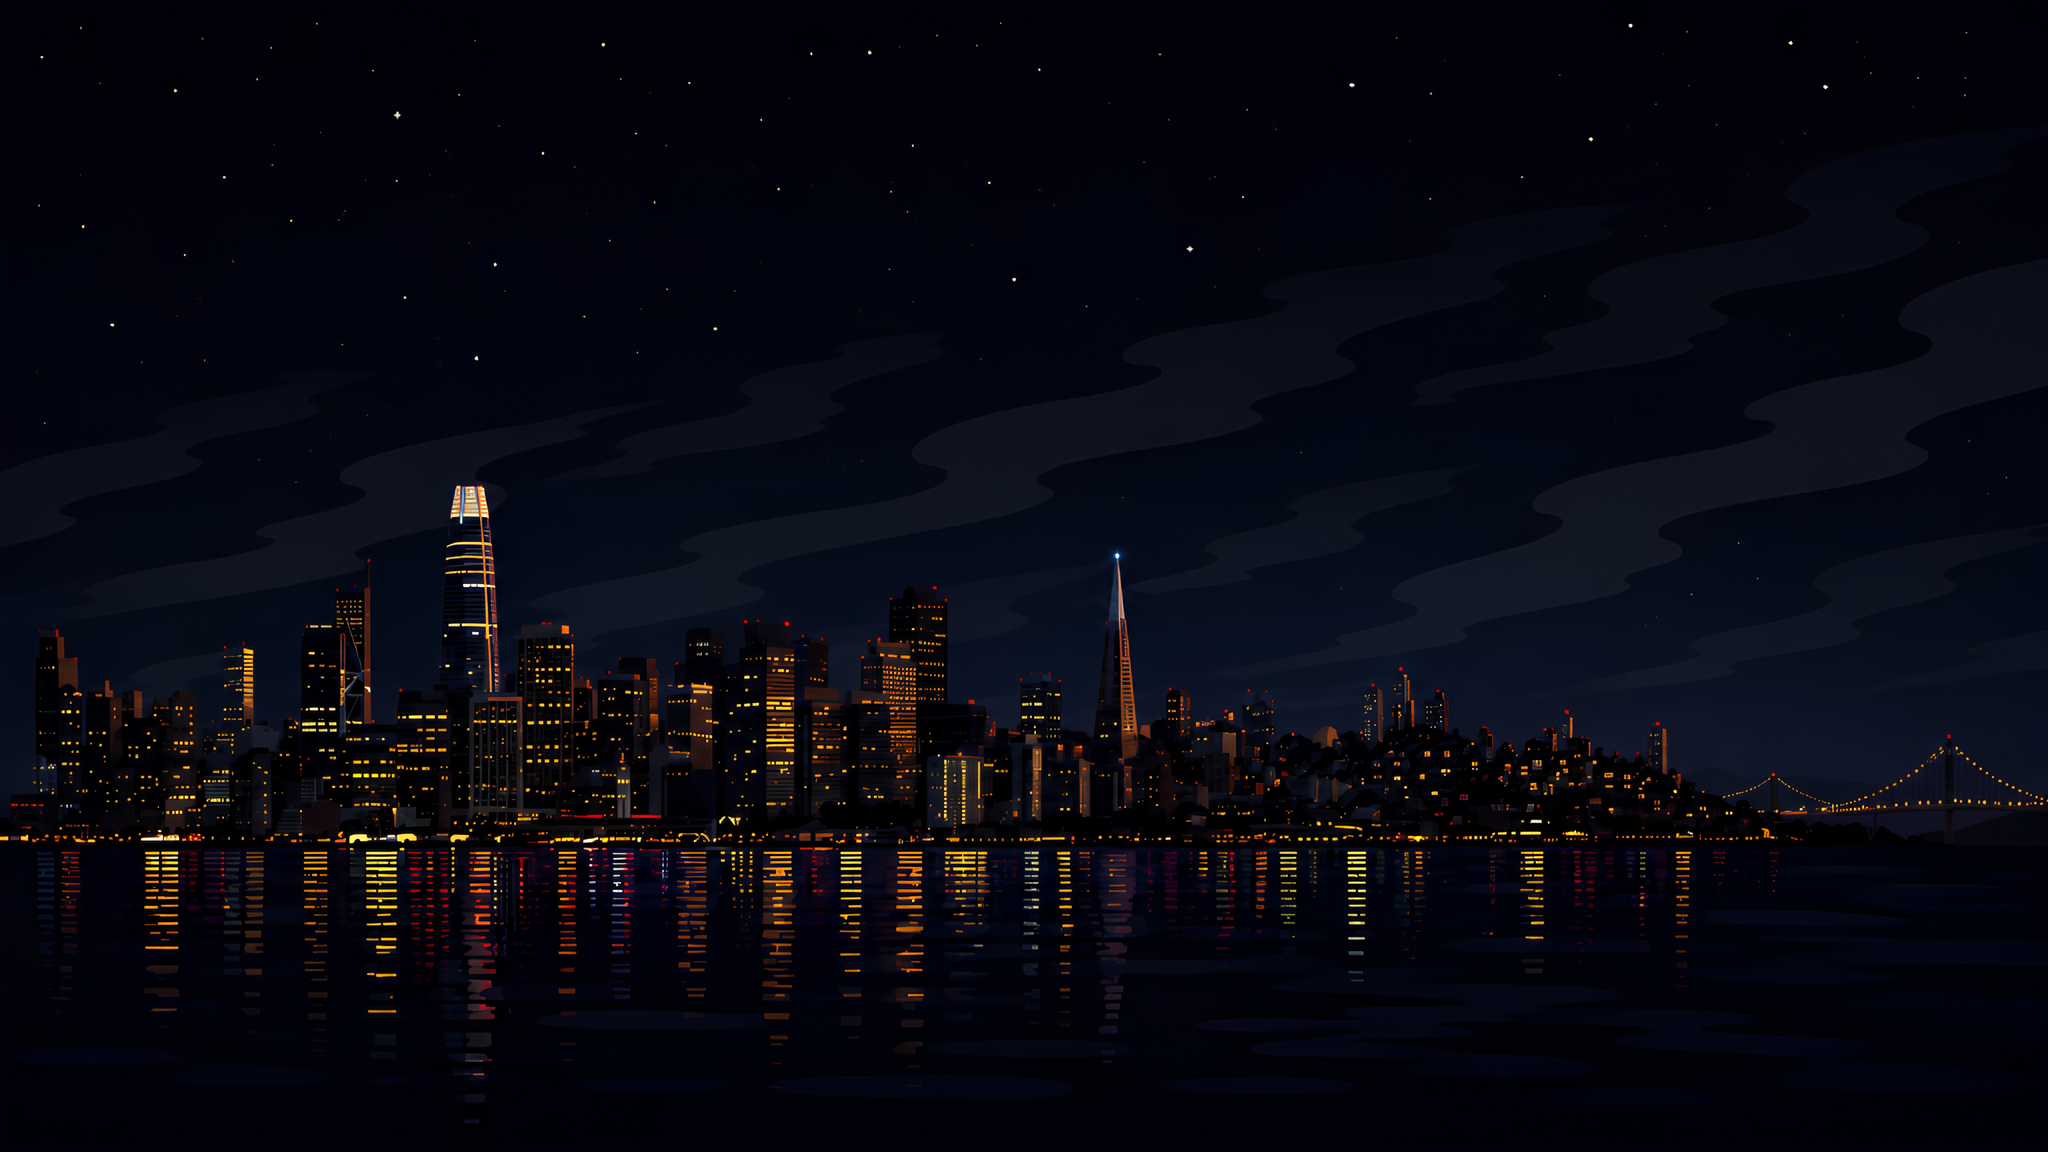
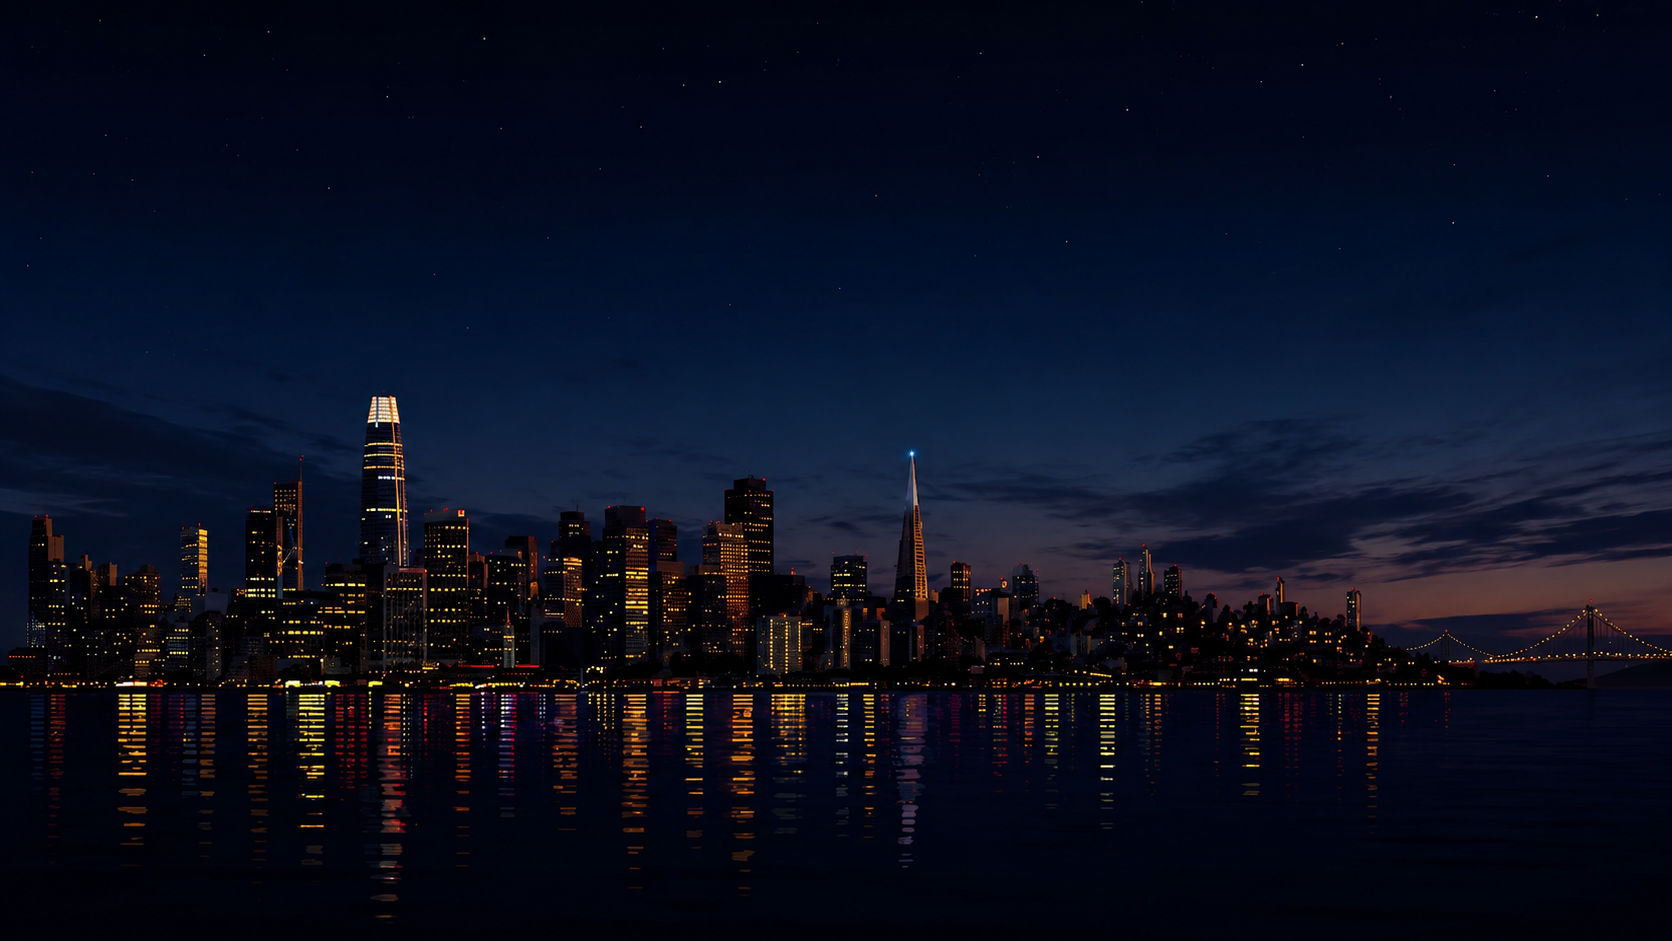
Changes for hero bg

diff --git a/src/App.css b/src/App.css
@@ -329,6 +329,7 @@ a {
   text-shadow: none;
   /* removed blue glow shadow */
 }
+
 .hero-title {
   font-size: clamp(1.15rem, 2.8vw, 1.45rem);
   color: var(--text-secondary);